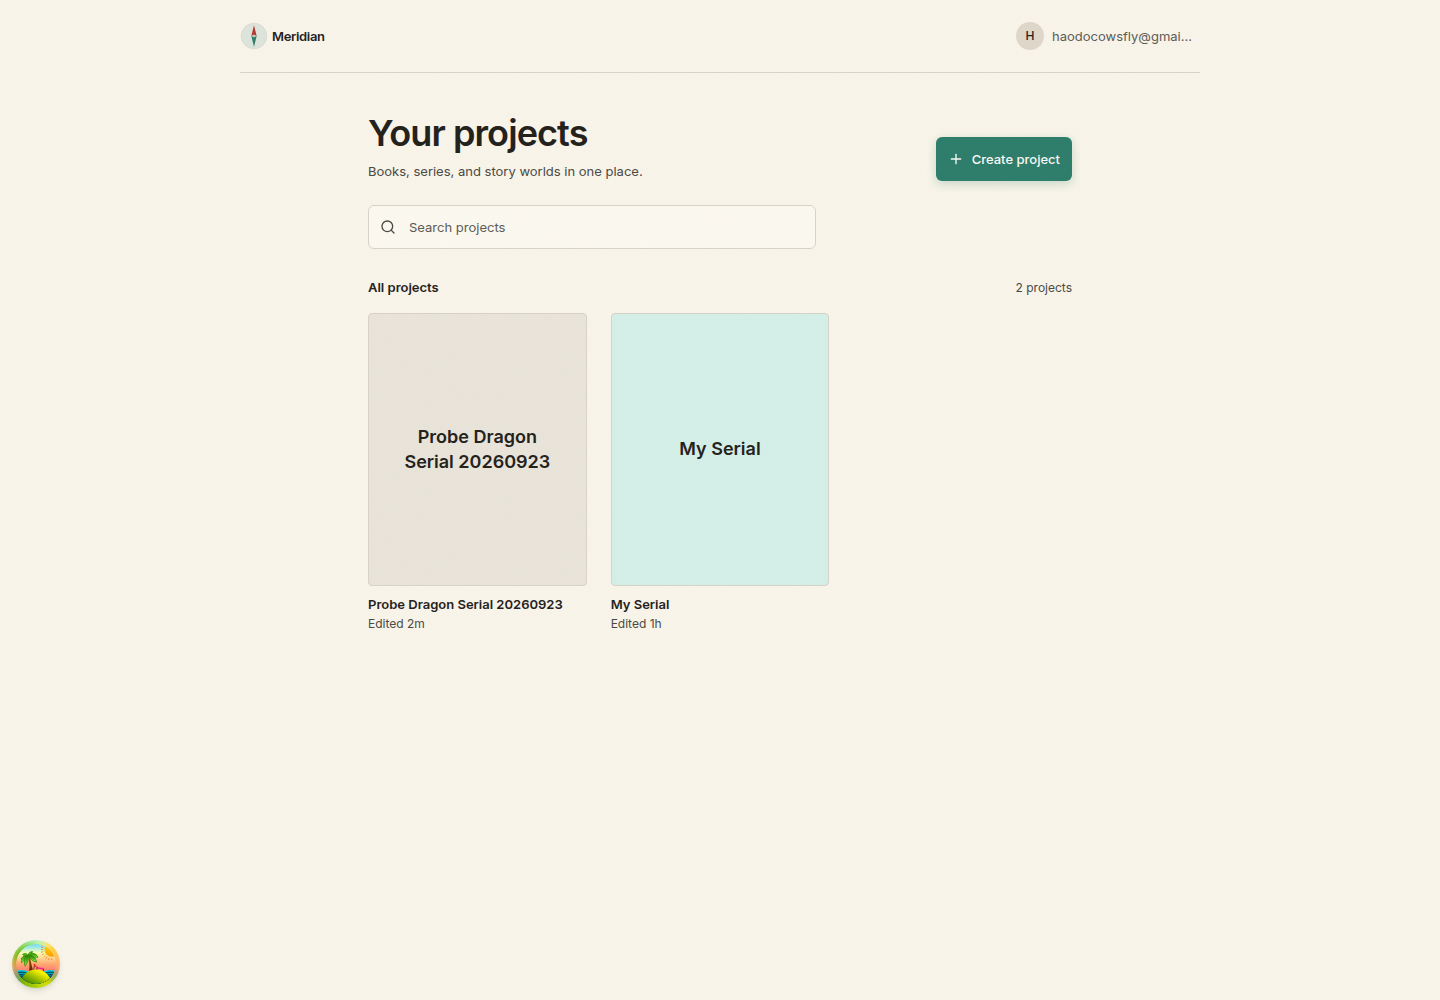
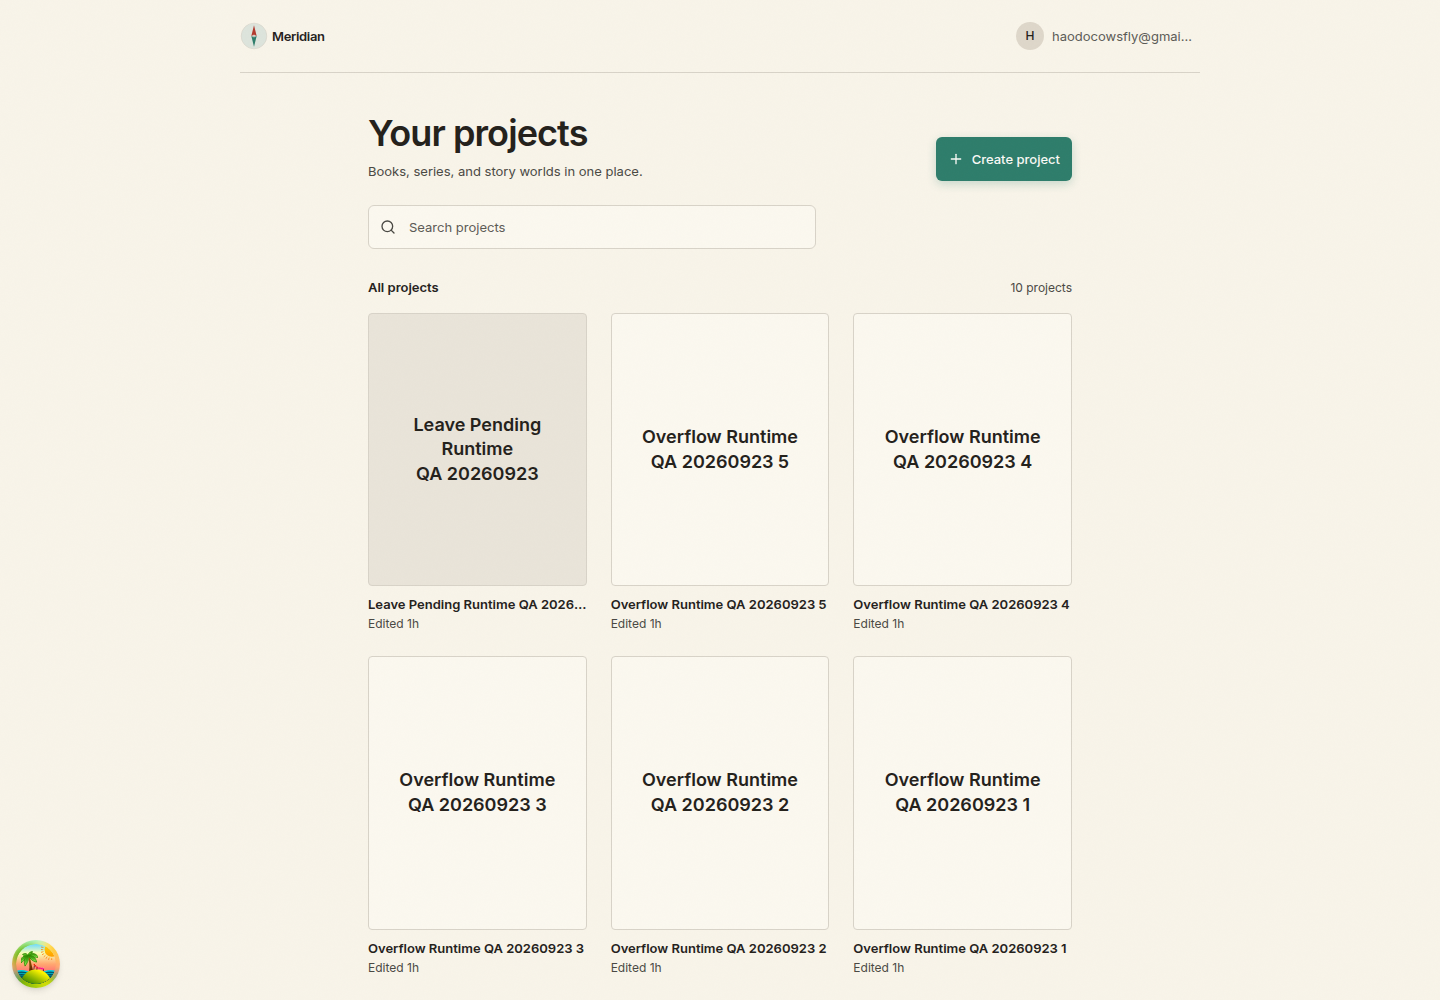
Keep library covers on the existing neutral palette

diff --git a/apps/app/src/styles/globals.css b/apps/app/src/styles/globals.css
@@ -15,8 +15,7 @@
 
 @theme {
   --container-chat-column: 48rem;
-  --container-home: 45rem;
-  --container-project-home: 60rem;
+  --container-project-screen: 60rem;
 }
 
 /* Project-only tokens (not shared with marketing surfaces). */
@@ -317,20 +316,12 @@
   @apply main-pane mx-auto box-border w-full max-w-chat-column px-8;
 }
 
-@utility home-column {
-  @apply main-pane mx-auto box-border flex min-h-0 w-full max-w-home flex-col px-8 py-16;
-
-  & li {
-    @apply min-w-0;
-  }
-}
-
-/* Shared content measure for project-owned Home and Work screens. The screen,
+/* Shared content measure for project Chat and Work screens. The screen,
    rather than the viewport, is the responsive authority for its collections. */
 @utility project-screen-column {
-  container-name: project-home;
+  container-name: project-screen;
   container-type: inline-size;
-  @apply mx-auto box-border flex w-full max-w-project-home flex-col px-4 py-6 sm:px-8 sm:py-8;
+  @apply mx-auto box-border flex w-full max-w-project-screen flex-col px-4 py-6 sm:px-8 sm:py-8;
   padding-bottom: calc(1.5rem + env(safe-area-inset-bottom));
 
   @media (min-width: 40rem) {
@@ -387,14 +378,13 @@
   @apply text-base leading-relaxed md:text-[15px];
 }
 
-@container project-home (min-width: 42rem) {
-  .home-composer-heading {
+@container project-screen (min-width: 42rem) {
+  .chat-landing-heading {
     font-size: var(--text-headline-hero);
     line-height: var(--text-headline-hero--line-height);
     letter-spacing: var(--text-headline-hero--letter-spacing);
     font-weight: var(--text-headline-hero--font-weight);
   }
-
 }
 
 @utility user-turn {

diff --git a/apps/app/src/features/project/work/WorkScreen.tsx b/apps/app/src/features/project/work/WorkScreen.tsx
@@ -163,7 +163,7 @@ export function WorkCollectionScreen({ projectId, routeCommands }: WorkScreenPro
                 <Trans>Active Work</Trans>
               </h2>
               {active.length ? (
-                <ul className="grid gap-4 @2xl/project-home:grid-cols-2">
+                <ul className="grid gap-4 @2xl/project-screen:grid-cols-2">
                   {active.map((work) => (
                     <li key={work.id}>
                       <WorkCard
@@ -221,7 +221,7 @@ export function WorkCollectionScreen({ projectId, routeCommands }: WorkScreenPro
                   </button>
                 </h2>
                 {archivedOpen ? (
-                  <ul className="mt-3 grid gap-4 @2xl/project-home:grid-cols-2">
+                  <ul className="mt-3 grid gap-4 @2xl/project-screen:grid-cols-2">
                     {archived.map((work) => (
                       <li key={work.id}>
                         <WorkCard
@@ -329,7 +329,7 @@ function LoadingCards() {
     <div
       role="status"
       aria-label={t`Loading Work`}
-      className="grid gap-4 @2xl/project-home:grid-cols-2"
+      className="grid gap-4 @2xl/project-screen:grid-cols-2"
     >
       {[0, 1].map((key) => (
         <Card key={key} className="gap-3 px-5 py-5">

diff --git a/packages/design-tokens/src/ink-jade.css b/packages/design-tokens/src/ink-jade.css
@@ -28,8 +28,8 @@
 
 /* Package-private tone atoms — ONLY for values shared by several role tokens
    (a value with one role stays literal in that role). Not @theme: atoms must
-   not generate utilities, and dark mode overrides the semantic `--color-*`
-   roles, never these. Consumers use role tokens only. */
+   not generate utilities. The dark theme may re-point these atoms along
+   with semantic roles; consumers still use role tokens only. */
 :root {
   /* Raised cards, bubbles, field fills. */
   --ink-jade-lift: oklch(0.978 0.012 92);

diff --git a/apps/app/src/features/project/chat-landing/ChatLandingScreen.tsx b/apps/app/src/features/project/chat-landing/ChatLandingScreen.tsx
@@ -66,7 +66,7 @@ export function ChatLandingScreen({ projectId, onOpenThread }: ChatLandingScreen
         <div className="flex flex-col gap-6">
           <section>
             <div className="mx-auto w-full max-w-3xl">
-              <h1 className="home-composer-heading text-headline-section">
+              <h1 className="chat-landing-heading text-headline-section">
                 <Trans>What will you write next?</Trans>
               </h1>
               <p className="mt-2 text-body text-muted-foreground">

diff --git a/apps/app/src/features/home/ProjectLibrary.tsx b/apps/app/src/features/home/ProjectLibrary.tsx
@@ -13,7 +13,7 @@ import { AccountMenu } from "@/features/account/AccountMenu";
 import { formatRelativeTime } from "@/lib/date-groups";
 import { displayProjectTitle } from "@/lib/project-title";
 
-const COVER_TONES = ["bg-secondary", "bg-chip-primary-bg", "bg-muted", "bg-card"] as const;
+const COVER_TONES = ["bg-secondary", "bg-card"] as const;
 
 export function ProjectLibrary() {
   const { projects, isError, refetch } = useProjectListStatus();

diff --git a/apps/app/src/features/project/work/WorkDetailScreen.tsx b/apps/app/src/features/project/work/WorkDetailScreen.tsx
@@ -124,7 +124,7 @@ export function WorkDetailScreen({
           }
         />
         <Drafts projectId={projectId} work={controller.work} commands={routeCommands} />
-        <div className="grid min-w-0 gap-6 @2xl/project-home:grid-cols-2">
+        <div className="grid min-w-0 gap-6 @2xl/project-screen:grid-cols-2">
           <TreeSummary
             projectId={projectId}
             work={controller.work}

diff --git a/CHANGELOG.md b/CHANGELOG.md
@@ -9,6 +9,7 @@
 
 ### Changed
 
+- Keep project cover placeholders on the existing neutral surface ladder; remove the dead account Home width and rename the still-used project screen width and container.
 - Remove the unused account project-home redirect endpoint and its wire contract; drop the unconsumed last-active-project preference from user persistence.
 - Open a searchable project library at the signed-in base URL. Create a named project from a separate destination; open any project directly in Chat. Remove the account Home composer and quick-chat entry.
 - Make Chat the only in-project landing at `/p/:slug`, combining the composer with Continue, Favorite, and Recent; remove the duplicate project Home and `/chats` destination. Project wordmarks now return to the account library.
